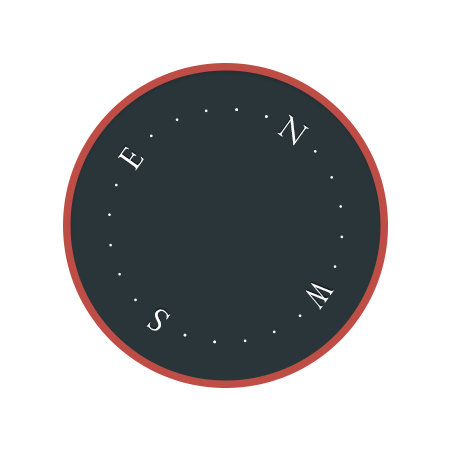
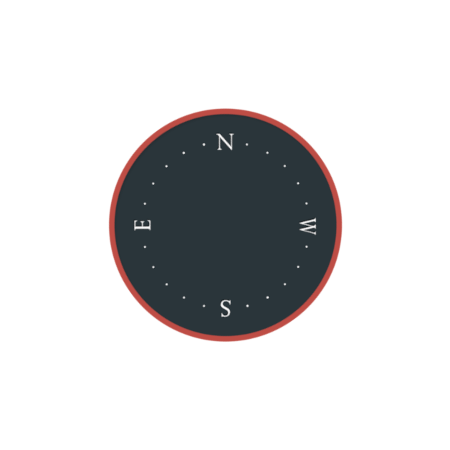
compassi suoristettu

Changed region(s): [[0.1244, 0.1244, 0.8711, 0.8711], [0.6533, 0.4667, 0.7156, 0.5289], [0.4667, 0.6533, 0.5289, 0.7156]]

diff --git a/lib/components/forecast_card.dart b/lib/components/forecast_card.dart
@@ -1,5 +1,4 @@
 import 'dart:ui';
-
 import 'package:flutter/cupertino.dart';
 import 'package:flutter/material.dart';
 import 'package:flutter_app/components/weatherValues.dart';
@@ -104,7 +103,9 @@ class _ForecastState extends State<GetForecast> {
             fontSize: 10,
           ),
           getTitles: (value) {
+
             switch (value.toInt()) {
+
               case 1:
                 return 'MA';
               case 2:

diff --git a/lib/components/compass.dart b/lib/components/compass.dart
@@ -30,8 +30,8 @@ Widget buildCompass() {
       return Stack(
         children: [
           Container(
-            width: 200,
-            height: 200,
+            width: 320,
+            height: 320,
 
             alignment: Alignment.center,
             child: Transform.rotate(
